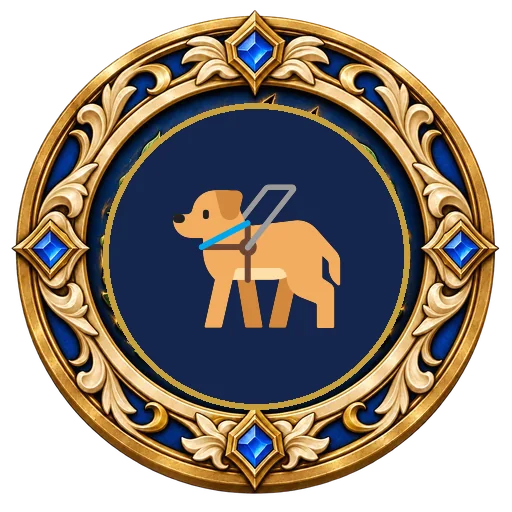
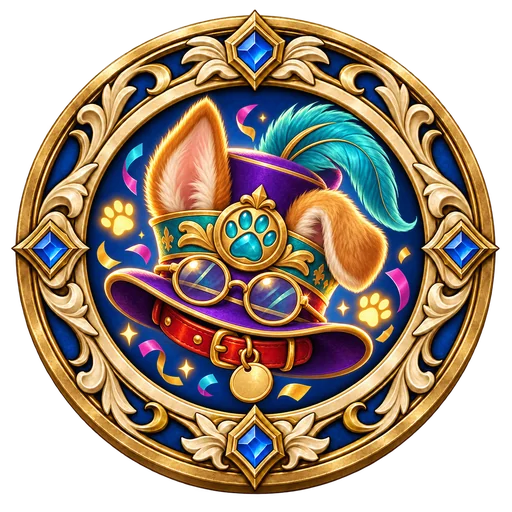
Vodítko má vlastný art medailónu (cylinder s psími ušami a obojkom)

diff --git a/DESIGN.md b/DESIGN.md
@@ -1057,7 +1057,7 @@ nezasekne. Vybrané trinkety sú v `p.trinkets`, platnosť overuje
 | `dragonPact` | 🐲 | dračie bojové aury (`buffRaceOf`, `buffRandomRace`, `buffTopRace`) +1/+1 |
 | `ogreSabotage` | 👹 | Pečať +1/+0 Ogrom; minca za súperove trinkety |
 | `ogreCareful` | 👹 | hody padnú vždy dobre, bonusy polovičné (min. 1) |
-| `doggyLeash` | 🐶 late | každé generovanie Pohladkania (P001, P002) dá o 1 viac – endgame palivo pre Veľké pohladkanie; art je placeholder (rám Zákona svorky + emoji) |
+| `doggyLeash` | 🐶 late | každé generovanie Pohladkania (P001, P002) dá o 1 viac – endgame palivo pre Veľké pohladkanie |
 | `cheapUpgrade` | – | upgrade o 2 lacnejší (min. 2) |
 | `richSell` | – | predaj dáva 2 |
 | `twinEvolve1` | – | kartám tieru 1 stačia 2 kópie |
